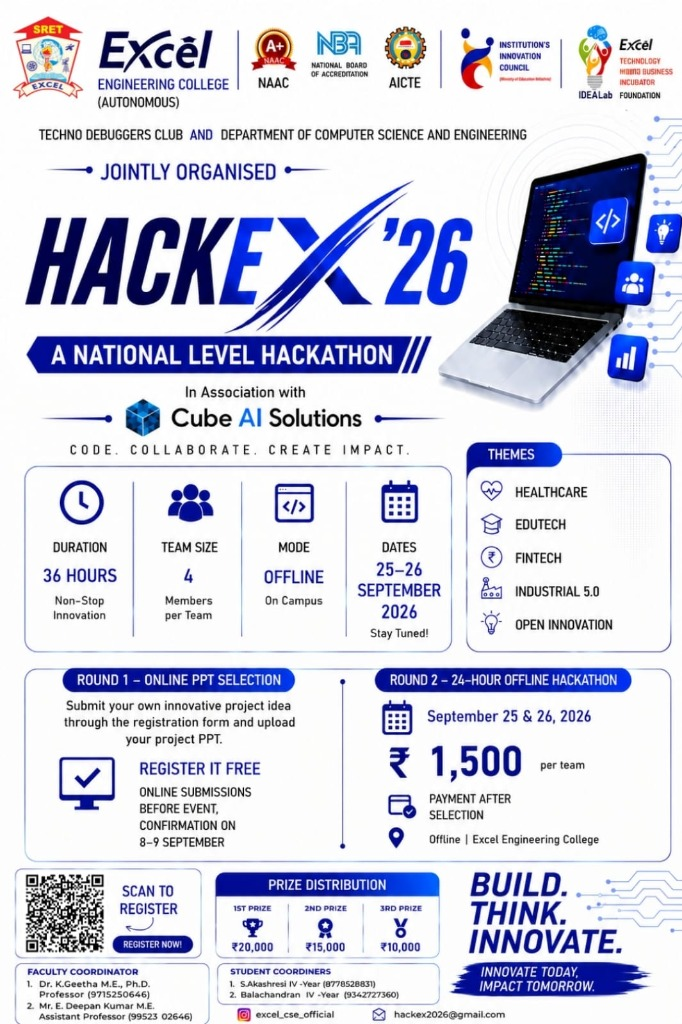
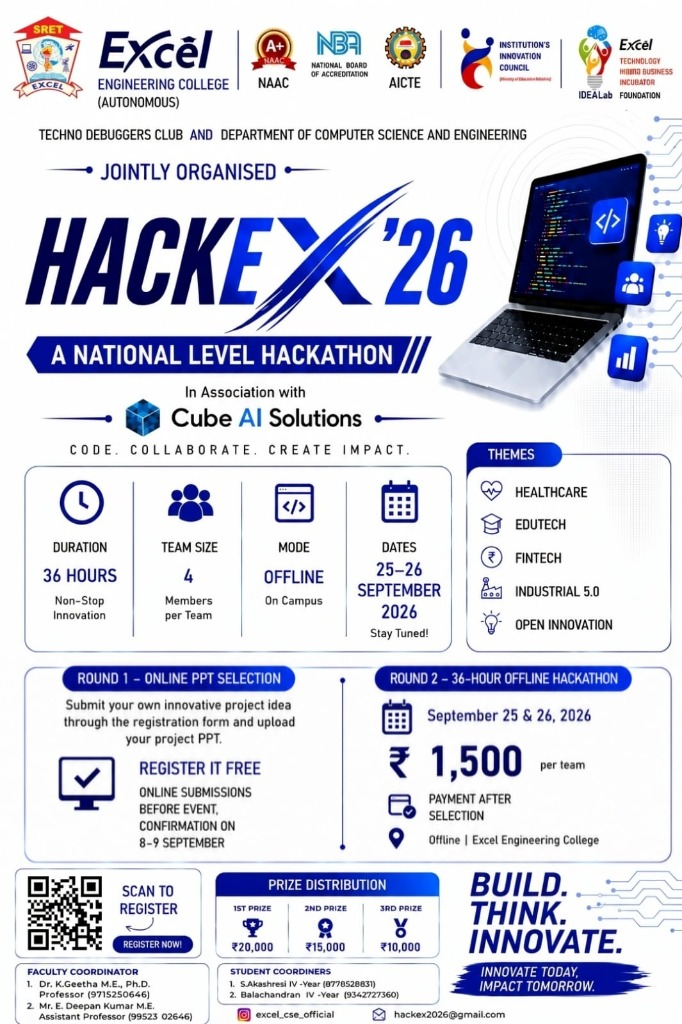
Update HACKEX '26 branding, official poster asset, 36-hour schedule milestones, and kinetic welcome splash animation

diff --git a/artifacts/hackex26/src/components/sections/Timeline.tsx b/artifacts/hackex26/src/components/sections/Timeline.tsx
@@ -17,121 +17,121 @@ export function Timeline() {
   const schedule: ScheduleItem[] = [
     {
       id: 1,
-      dateTime: 'Sep 25, 09:00 AM - 10:00 AM',
-      timeElapsed: 'Hour 00 - 01',
+      dateTime: 'Sep 25, 09:00 AM - 10:30 AM',
+      timeElapsed: 'Hour 00 - 01.5',
       phase: 'Kickoff',
       title: 'Opening Ceremony',
-      description: 'Rules, tracks, and sponsor prompts revealed. On-the-spot problem statement announcement.',
+      description: 'Official inauguration, track guidelines, and problem statement announcements.',
       day: 'Day 1 (Sep 25)',
       icon: Sparkles,
     },
     {
       id: 2,
-      dateTime: 'Sep 25, 10:00 AM - 11:00 AM',
-      timeElapsed: 'Hour 01 - 02',
-      phase: 'Ideation',
-      title: 'Team Formation',
-      description: 'Pitching ideas and networking to lock teams and align on target problem statement.',
-      day: 'Day 1 (Sep 25)',
-      icon: Users,
-    },
-    {
-      id: 3,
-      dateTime: 'Sep 25, 11:00 AM - 01:00 PM',
-      timeElapsed: 'Hour 02 - 04',
-      phase: 'Planning',
-      title: 'Scope Definition',
-      description: 'Finalising tech stack, roles, and MVP features.',
-      day: 'Day 1 (Sep 25)',
-      icon: Layers,
-    },
-    {
-      id: 4,
-      dateTime: 'Sep 25, 01:00 PM - 05:00 PM',
-      timeElapsed: 'Hour 04 - 08',
+      dateTime: 'Sep 25, 10:30 AM - 02:00 PM',
+      timeElapsed: 'Hour 01.5 - 05',
       phase: 'Execution',
       title: 'Hacking Begins',
-      description: 'Setting up repositories, initial backend, and UI wireframes.',
+      description: 'Repository setup, architecture layout, and core coding kickoff.',
       day: 'Day 1 (Sep 25)',
       icon: Code,
     },
     {
-      id: 5,
+      id: 3,
+      dateTime: 'Sep 25, 02:00 PM - 05:00 PM',
+      timeElapsed: 'Hour 05 - 08',
+      phase: 'Evaluation',
+      title: 'First Evaluation',
+      description: 'Initial mentor review of problem scope, design architecture, and tech stack.',
+      day: 'Day 1 (Sep 25)',
+      icon: Award,
+    },
+    {
+      id: 4,
       dateTime: 'Sep 25, 05:00 PM - 09:00 PM',
       timeElapsed: 'Hour 08 - 12',
       phase: 'Execution',
       title: 'Core Features',
-      description: 'Connecting databases and primary API endpoints.',
+      description: 'Developing core functionality, database schema, and primary API endpoints.',
       day: 'Day 1 (Sep 25)',
-      icon: Code,
+      icon: Layers,
+    },
+    {
+      id: 5,
+      dateTime: 'Sep 25, 09:00 PM - 11:30 PM',
+      timeElapsed: 'Hour 12 - 14.5',
+      phase: 'Evaluation',
+      title: 'Second Evaluation',
+      description: 'Mid-hack judge checkpoint evaluating functional progress & working components.',
+      day: 'Day 1 (Sep 25)',
+      icon: CheckCircle2,
     },
     {
       id: 6,
-      dateTime: 'Sep 25, 09:00 PM - Sep 26, 01:00 AM',
-      timeElapsed: 'Hour 12 - 16',
+      dateTime: 'Sep 25, 11:30 PM - 03:00 AM',
+      timeElapsed: 'Hour 14.5 - 18',
       phase: 'Overnight',
       title: 'Midnight Push',
-      description: 'Heavy coding, debugging, and mentor check-ins.',
+      description: 'Heavy overnight coding session, debugging complex logic, and mentor check-ins.',
       day: 'Day 1 (Sep 25)',
       icon: Flame,
     },
     {
       id: 7,
-      dateTime: 'Sep 26, 01:00 AM - 05:00 AM',
-      timeElapsed: 'Hour 16 - 20',
+      dateTime: 'Sep 26, 03:00 AM - 07:00 AM',
+      timeElapsed: 'Hour 18 - 22',
       phase: 'Overnight',
-      title: 'Graveyard Shift',
-      description: 'Powering through logic, short rest/nap rotations.',
+      title: 'Nocturnal Code Surge (Late Night Sprint)',
+      description: 'Powering through algorithms with hot beverages and continuous dev energy.',
       day: 'Day 2 (Sep 26)',
       icon: Flame,
     },
     {
       id: 8,
-      dateTime: 'Sep 26, 05:00 AM - 09:00 AM',
-      timeElapsed: 'Hour 20 - 24',
+      dateTime: 'Sep 26, 07:00 AM - 10:00 AM',
+      timeElapsed: 'Hour 22 - 25',
       phase: 'Execution',
       title: 'Day 2 Alignment',
-      description: 'Reviewing progress against deadlines; quick pivots.',
+      description: 'Morning standup, rapid progress sync against deadlines, and quick pivots.',
       day: 'Day 2 (Sep 26)',
       icon: Clock,
     },
     {
       id: 9,
-      dateTime: 'Sep 26, 09:00 AM - 01:00 PM',
-      timeElapsed: 'Hour 24 - 28',
+      dateTime: 'Sep 26, 10:00 AM - 01:30 PM',
+      timeElapsed: 'Hour 25 - 28.5',
       phase: 'Execution',
       title: 'Integration',
-      description: 'Linking front-end design to the functional backend.',
+      description: 'Connecting frontend interfaces with backend services and database pipelines.',
       day: 'Day 2 (Sep 26)',
       icon: Code,
     },
     {
       id: 10,
-      dateTime: 'Sep 26, 01:00 PM - 05:00 PM',
-      timeElapsed: 'Hour 28 - 32',
+      dateTime: 'Sep 26, 01:30 PM - 04:30 PM',
+      timeElapsed: 'Hour 28.5 - 31.5',
       phase: 'Polishing',
       title: 'Code Freeze',
-      description: 'Bug fixes, visual polish, and stopping new features.',
+      description: 'Bug squashing, visual polish, repository freeze, and stopping new feature additions.',
       day: 'Day 2 (Sep 26)',
       icon: CheckCircle2,
     },
     {
       id: 11,
-      dateTime: 'Sep 26, 05:00 PM - 07:00 PM',
-      timeElapsed: 'Hour 32 - 34',
+      dateTime: 'Sep 26, 04:30 PM - 06:00 PM',
+      timeElapsed: 'Hour 31.5 - 33',
       phase: 'Submission',
       title: 'Platform Upload',
-      description: 'Recording video demos and submitting to Devpost/GitHub.',
+      description: 'Uploading source code, project documentation, slides, and demo video link.',
       day: 'Day 2 (Sep 26)',
       icon: Rocket,
     },
     {
       id: 12,
-      dateTime: 'Sep 26, 07:00 PM - 08:00 PM',
-      timeElapsed: 'Hour 34 - 35',
+      dateTime: 'Sep 26, 06:00 PM - 08:00 PM',
+      timeElapsed: 'Hour 33 - 35',
       phase: 'Judging',
-      title: 'Hacking Ends',
-      description: 'Live presentations, pitches, and judge Q&A panels.',
+      title: 'Closing Hackathon Ends (3rd Evaluation)',
+      description: '3rd evaluation pitches, live project demonstrations, and final judge assessments.',
       day: 'Day 2 (Sep 26)',
       icon: Users,
     },
@@ -140,8 +140,8 @@ export function Timeline() {
       dateTime: 'Sep 26, 08:00 PM - 09:00 PM',
       timeElapsed: 'Hour 35 - 36',
       phase: 'Closing',
-      title: 'Awards Ceremony',
-      description: 'Winner announcements, sponsor prizes, and wrap-up.',
+      title: 'Judging Award Ceremony, Prize Distribution Ceremony',
+      description: 'Grand prize distribution, winner announcements, sponsor recognition, and event wrap-up.',
       day: 'Day 2 (Sep 26)',
       icon: Award,
     },

diff --git a/artifacts/hackex26/src/components/ui/WelcomeSplash.tsx b/artifacts/hackex26/src/components/ui/WelcomeSplash.tsx
@@ -80,14 +80,58 @@ export function WelcomeSplash({ onComplete }: WelcomeSplashProps) {
               <div className="splash-mark-ring" />
             </motion.div>
 
-            {/* Title */}
+            {/* Kinetic Animated Title */}
             <motion.h1
-              className="splash-title"
-              initial={{ opacity: 0, y: 20 }}
-              animate={{ opacity: 1, y: 0 }}
-              transition={{ delay: 0.35, duration: 0.6 }}
+              className="splash-hero-title"
+              aria-label="HACKEX ’26"
+              initial="hidden"
+              animate="visible"
+              variants={{
+                hidden: { opacity: 0 },
+                visible: {
+                  opacity: 1,
+                  transition: { staggerChildren: 0.05, delayChildren: 0.25 },
+                },
+              }}
             >
-              HACKE<span className="brand-x">X</span>’26
+              {'HACKE'.split('').map((char, index) => (
+                <motion.span
+                  key={`char-${index}`}
+                  className="splash-letter"
+                  variants={{
+                    hidden: { opacity: 0, y: 25, scale: 0.7, rotateX: -90 },
+                    visible: { opacity: 1, y: 0, scale: 1, rotateX: 0 },
+                  }}
+                  transition={{ type: 'spring', stiffness: 280, damping: 16 }}
+                >
+                  {char}
+                </motion.span>
+              ))}
+
+              <motion.span
+                className="splash-letter-x"
+                variants={{
+                  hidden: { opacity: 0, scale: 0, rotate: -45 },
+                  visible: { opacity: 1, scale: 1.15, rotate: 0 },
+                }}
+                transition={{ type: 'spring', stiffness: 320, damping: 14 }}
+              >
+                X
+              </motion.span>
+
+              {'’26'.split('').map((char, index) => (
+                <motion.span
+                  key={`num-${index}`}
+                  className="splash-letter splash-letter-num"
+                  variants={{
+                    hidden: { opacity: 0, y: 25, scale: 0.7, rotateX: -90 },
+                    visible: { opacity: 1, y: 0, scale: 1, rotateX: 0 },
+                  }}
+                  transition={{ type: 'spring', stiffness: 280, damping: 16 }}
+                >
+                  {char}
+                </motion.span>
+              ))}
             </motion.h1>
 
             <motion.p

diff --git a/artifacts/hackex26/src/components/sections/Process.tsx b/artifacts/hackex26/src/components/sections/Process.tsx
@@ -7,26 +7,27 @@ export function Process() {
     {
       round: 'ROUND 1',
       title: 'ONLINE PPT SELECTION',
-      subtitle: 'Submit Project Idea & Upload PPT',
+      subtitle: '8 Sep Last Date to Submit PPT • 8–9 Sep Confirmation Date',
       badge: 'REGISTER IT FREE',
       badgeClass: 'badge-free',
       details: [
         'Choose your own innovative problem statement and project idea.',
         'Submit your project idea through the registration form and upload your project PPT.',
+        '8 Sep: Last date to submit the project PPT.',
+        '8–9 Sep: Confirmation Date for shortlisted teams moving to Round 2.',
         'Online registration is 100% FREE — no entry fee required for Round 1.',
-        'Online submissions before event; shortlisted team confirmation on 8–9 SEPTEMBER.',
       ],
     },
     {
       round: 'ROUND 2',
-      title: '24-HOUR OFFLINE HACKATHON',
+      title: '36-HOUR OFFLINE HACKATHON',
       subtitle: 'September 25 & 26, 2026',
       badge: '₹1,500 / TEAM (AFTER SELECTION)',
       badgeClass: 'badge-paid',
       details: [
         'Selected PPT teams move to Round 2 to build their prototype on campus at Excel Engineering College.',
         'Payment of ₹1,500 per team is collected ONLY AFTER selection in Round 1.',
-        'Non-stop offline hackathon experience with food, Wi-Fi, live mentoring, and final prototype demo.',
+        'Non-stop 36-hour offline hackathon experience with food, Wi-Fi, live mentoring, and final prototype demo.',
       ],
     },
   ];
@@ -73,8 +74,8 @@ export function Process() {
             <div className="summary-item">
               <FileText size={22} />
               <div>
-                <strong>Round 1 PPT Selection</strong>
-                <span>Online Submission • 100% Free • Upload PPT</span>
+                <strong>Round 1 PPT Submission</strong>
+                <span>8 Sep Deadline • 100% Free • Online PPT Upload</span>
               </div>
             </div>
             <div className="summary-item">

diff --git a/artifacts/hackex26/src/index.css b/artifacts/hackex26/src/index.css
@@ -1376,15 +1376,61 @@ button:focus-visible, a:focus-visible, input:focus-visible, textarea:focus-visib
   100% { transform: rotate(360deg); }
 }
 
-.splash-title {
-  font-size: clamp(48px, 10vw, 76px);
+.splash-hero-title {
+  display: flex;
+  align-items: center;
+  justify-content: center;
+  font-size: clamp(52px, 11vw, 84px);
   font-weight: 900;
   line-height: 1;
-  letter-spacing: -0.03em;
-  background: linear-gradient(180deg, #ffffff 30%, #a8c7ff 100%);
+  letter-spacing: -0.02em;
+  margin: 12px 0 16px;
+  position: relative;
+  perspective: 1000px;
+}
+
+.splash-letter {
+  display: inline-block;
+  background: linear-gradient(180deg, #ffffff 20%, #b0d2ff 100%);
   -webkit-background-clip: text;
   -webkit-text-fill-color: transparent;
-  margin-bottom: 8px;
+  filter: drop-shadow(0 4px 12px rgba(0, 0, 0, 0.5));
+}
+
+.splash-letter-num {
+  background: linear-gradient(180deg, #00f0ff 0%, #70b4ff 100%);
+  -webkit-background-clip: text;
+  -webkit-text-fill-color: transparent;
+}
+
+.splash-letter-x {
+  display: inline-block;
+  position: relative;
+  background: linear-gradient(135deg, #00f0ff 0%, #2563eb 60%, #60a5fa 100%);
+  -webkit-background-clip: text;
+  -webkit-text-fill-color: transparent;
+  filter: drop-shadow(0 0 20px rgba(0, 240, 255, 0.9)) drop-shadow(0 0 35px rgba(37, 99, 235, 0.7));
+  animation: splashPulseX 2s ease-in-out infinite alternate;
+  padding: 0 3px;
+  margin: 0 1px;
+}
+
+@keyframes splashPulseX {
+  0% {
+    filter: drop-shadow(0 0 16px rgba(0, 240, 255, 0.8)) drop-shadow(0 0 28px rgba(37, 99, 235, 0.6));
+    transform: scale(1);
+  }
+  100% {
+    filter: drop-shadow(0 0 30px rgba(0, 240, 255, 1)) drop-shadow(0 0 50px rgba(0, 162, 255, 0.9));
+    transform: scale(1.08);
+  }
+}
+
+.brand-x {
+  background: linear-gradient(135deg, #00f0ff 0%, #3b82f6 100%) !important;
+  -webkit-background-clip: text !important;
+  -webkit-text-fill-color: transparent !important;
+  display: inline-block;
 }
 
 .splash-subtitle {

diff --git a/artifacts/hackex26/src/components/sections/Hero.tsx b/artifacts/hackex26/src/components/sections/Hero.tsx
@@ -49,9 +49,9 @@ export function Hero() {
             </div>
             <div className="hero-facts">
               <div className="fact"><b>Round 1</b><span>Online PPT<br />Selection (Free)</span></div>
+              <div className="fact"><b>8 Sep</b><span>PPT Submit<br />Deadline</span></div>
               <div className="fact"><b>8–9 Sep</b><span>Confirmation<br />Date</span></div>
-              <div className="fact"><b>25–26 Sep</b><span>Offline Campus<br />Hackathon</span></div>
-              <div className="fact"><b>₹1,500</b><span>Per Team<br />After Selection</span></div>
+              <div className="fact"><b>25–26 Sep</b><span>36-Hour Offline<br />Hackathon</span></div>
             </div>
           </div>
           <div ref={artRef} className="hero-art" aria-label="Illustration of a coding laptop">
